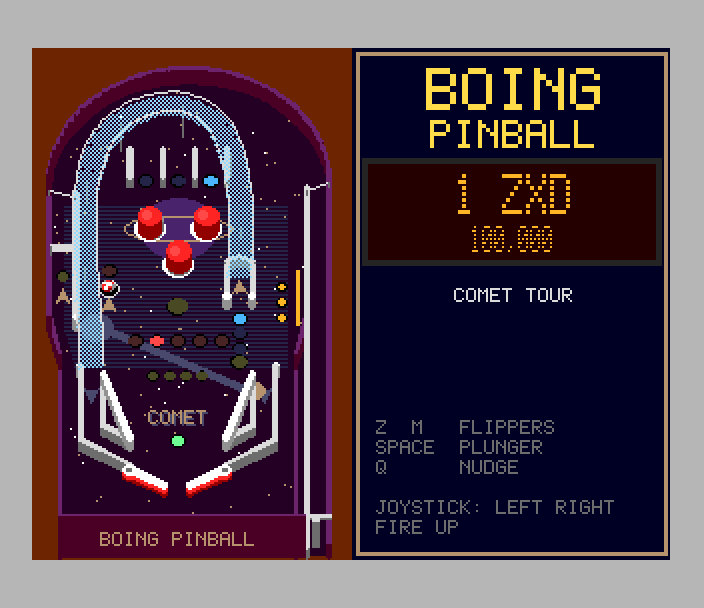
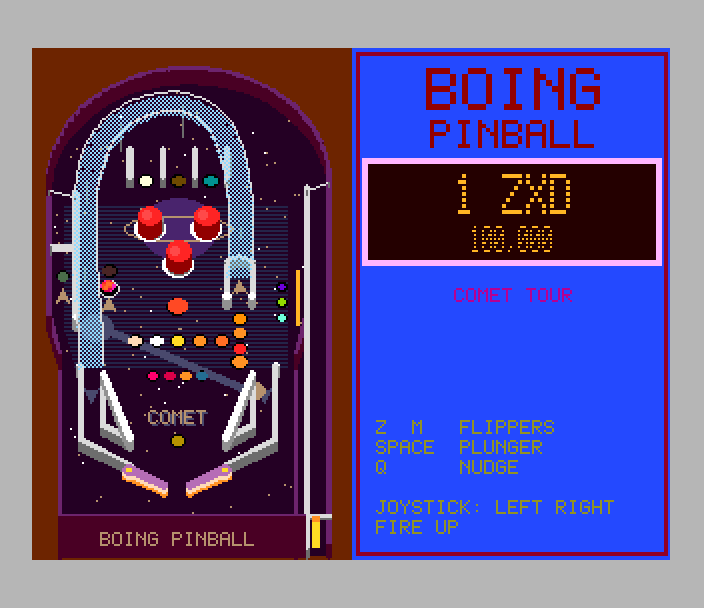
Boing Pinball's display: double buffered through the palette, tested every frame; tests that stopping an emulator spares others
- the next text is drawn into a pen coloured like the background (shared
  dots: a third, always-lit pen), only changed columns, composed and
  copied whole, at most 16 a frame and only while the raster line (NextReg
  0x1E/0x1F) is below the display; when done, the hidden Layer 2 palette
  gets the swapped colours and one NextReg 0x43 write shows it
- test.py: 630 frames (attract-mode text changes, a game's start), each
  screenshot's display compared pixel for pixel with the text the game says
  is visible (rendered in Python from the SDK font): never half drawn
- test_features: close / reboot / power cycle of one emulator leave another
  running (the harness only stops its own Popen; ./zx clean only runs make
  clean; selftest also rejects pkill/killall)

diff --git a/projects/boing_pinball/src/front.c b/projects/boing_pinball/src/front.c
@@ -51,23 +51,52 @@ struct {
 
 /* ------------------------------------------------------------ the display */
 
-/* The original's draw_dmd (one big line, or a big and a small one), drawn
-   a pixel column at a time: each column's dots are compared with what it
-   shows, only changed columns are drawn, at most DMD_BUDGET a frame, right
-   after the frame's interrupt (the beam is above the display then). A
-   score change redraws a few digits; a new message wipes in over a few
-   frames instead of being seen half drawn. Flashing is the palette. */
+/* Layer 2 has two palettes; NextReg 0x43 bit 2 picks the one shown. Entries
+   are written to both (keeping that bit), so the display can switch in one
+   write (dmd_update). */
+static uint8_t l2pal_shown;
+
+static void l2pal(uint8_t second, uint8_t idx, uint16_t c)
+{
+    ZXN_WRITE_REG(0x43, (second ? 0x50 : 0x10) | (l2pal_shown << 2));
+    ZXN_WRITE_REG(0x40, idx);
+    ZXN_WRITE_REG(0x44, (uint8_t)(c >> 1));
+    ZXN_WRITE_REG(0x44, (uint8_t)(c & 1));
+}
+
+static void set_pal(uint8_t idx, uint16_t c)
+{
+    l2pal(0, idx, c);
+    l2pal(1, idx, c);
+}
+
+/* The original's draw_dmd (one big line, or a big and a small one),
+   double buffered through the palette: the dots of the text being shown
+   are drawn in one pen, the next text's in another whose colour is the
+   background's (dots in both: a third pen, always lit). The next text is
+   drawn a pixel column at a time, only columns that differ, at most
+   DMD_BUDGET a frame, right after the frame's interrupt; when every column
+   is ready, the colours for the swapped pens go into the palette that
+   isn't shown and one register write shows it: the whole display changes
+   at once. A column is composed and copied so every pixel goes straight to
+   its final pen (a visible dot only ever turns into the always-lit pen):
+   it is never seen half drawn, whenever you look. Flashing is the palette. */
 #define DMD_BUDGET 16                   /* ~4.4K T-states a column: done before the beam reaches row 58 */
+#define PEN_A  88
+#define PEN_B  89
+#define PEN_AB 90
 
 typedef struct { const char *s; int16_t x0; uint8_t n, sx, y, sy; } dmd_line;
-static char shown_big[24], shown_small[40];
-static dmd_line lines[2];
-static uint8_t dmd_layout = 0xFF, dmd_cursor = DMD_W, dmd_flash;
-/* what each column shows and should show: line 0's dots | line 1's << 7
-   (initialised, so in the front end's page: Makefile) */
-static uint16_t col_sig[DMD_W] = {0xFFFF}, col_want[DMD_W] = {0};
-
-static void dmd_columns(const dmd_line *l, uint8_t shift);
+typedef struct { uint8_t layout; dmd_line l[2]; } dmd_geo;
+static char want_big[24], want_small[40];
+char dmd_vis_big[24], dmd_vis_small[40];        /* the text that is visible (test.py) */
+static dmd_geo geo_want, geo_vis, geo_hid;       /* where each pen's dots are */
+static uint8_t pen_vis = PEN_A, pen_hid = PEN_B, dmd_cursor, dmd_pending, dmd_flash;
+/* per column: the dots the next text needs, and what each pen holds there
+   (line 0's dots | line 1's << 7); initialised: in the front end's page */
+static uint16_t col_want[DMD_W] = {0}, sig_a[DMD_W] = {0}, sig_b[DMD_W] = {0};
+static uint16_t *sig_vis = sig_a, *sig_hid = sig_b;
+static uint8_t colbuf[DMD_H] = {0};
 
 static void dmd_set_line(dmd_line *l, const char *s, uint8_t sx, uint8_t y, uint8_t sy)
 {
@@ -77,39 +106,6 @@ static void dmd_set_line(dmd_line *l, const char *s, uint8_t sx, uint8_t y, uint
     l->x0 = (DMD_W - (int16_t)text_w(s, sx)) / 2;
     l->y = y;
     l->sy = sy;
-}
-
-static void dmd(const char *big, const char *small, uint8_t flash)
-{
-    uint8_t sx, layout;
-    if (!small) small = "";
-    if (flash != dmd_flash) {
-        dmd_flash = flash;
-        pal_set(1, P_DMD_ON, l2_pal_0[flash ? P_DMD_MID : P_DMD_ON]);
-    }
-    if (!strcmp(big, shown_big) && !strcmp(small, shown_small)) return;
-    strncpy(shown_big, big, sizeof shown_big - 1);
-    strncpy(shown_small, small, sizeof shown_small - 1);
-    if (!small[0]) {
-        sx = text_w(big, 3) <= DMD_W ? 3 : text_w(big, 2) <= DMD_W ? 2 : 1;
-        dmd_set_line(&lines[0], shown_big, sx, (DMD_H - 7 * (sx + 1)) / 2, sx + 1);
-        lines[1].n = 0;
-        layout = sx;
-    } else {
-        sx = text_w(big, 2) <= DMD_W ? 2 : 1;
-        dmd_set_line(&lines[0], shown_big, sx, 5, 3);
-        dmd_set_line(&lines[1], shown_small, 1, 31, 2);
-        layout = 4 + sx;
-    }
-    if (layout != dmd_layout) {                 /* the dots move: every column is new */
-        uint8_t x;
-        dmd_layout = layout;
-        for (x = 0; x < DMD_W; x++) col_sig[x] = 0xFFFF;
-    }
-    memset(col_want, 0, sizeof col_want);
-    dmd_columns(&lines[0], 0);
-    if (lines[1].n) dmd_columns(&lines[1], 7);
-    dmd_cursor = 0;
 }
 
 /* a line's dots into col_want, column by column (no divisions) */
@@ -131,28 +127,99 @@ static void dmd_columns(const dmd_line *l, uint8_t shift)
     }
 }
 
-static void dots(uint8_t *p, uint8_t bits, uint8_t sy)
+/* the pens' colours in palette `which` (0 / 1) */
+static void dmd_colours(uint8_t which)
 {
+    uint16_t on = l2_pal_0[dmd_flash ? P_DMD_MID : P_DMD_ON];
+    l2pal(which, pen_vis, on);
+    l2pal(which, PEN_AB, on);
+    l2pal(which, pen_hid, l2_pal_0[P_DMD_BG]);
+}
+
+static void dmd(const char *big, const char *small, uint8_t flash)
+{
+    uint8_t sx;
+    if (!small) small = "";
+    if (flash != dmd_flash) { dmd_flash = flash; dmd_colours(l2pal_shown); }
+    if (!strcmp(big, want_big) && !strcmp(small, want_small)) return;
+    strncpy(want_big, big, sizeof want_big - 1);
+    strncpy(want_small, small, sizeof want_small - 1);
+    if (!small[0]) {
+        sx = text_w(big, 3) <= DMD_W ? 3 : text_w(big, 2) <= DMD_W ? 2 : 1;
+        dmd_set_line(&geo_want.l[0], want_big, sx, (DMD_H - 7 * (sx + 1)) / 2, sx + 1);
+        geo_want.l[1].n = 0;
+        geo_want.layout = sx;
+    } else {
+        sx = text_w(big, 2) <= DMD_W ? 2 : 1;
+        dmd_set_line(&geo_want.l[0], want_big, sx, 5, 3);
+        dmd_set_line(&geo_want.l[1], want_small, 1, 31, 2);
+        geo_want.layout = 4 + sx;
+    }
+    memset(col_want, 0, sizeof col_want);
+    dmd_columns(&geo_want.l[0], 0);
+    if (geo_want.l[1].n) dmd_columns(&geo_want.l[1], 7);
+    if (geo_want.layout != geo_hid.layout) {     /* the hidden pen's dots move: redo every column */
+        uint8_t x;
+        geo_hid = geo_want;
+        for (x = 0; x < DMD_W; x++) sig_hid[x] = 0xFFFF;
+    }
+    dmd_cursor = 0;
+    dmd_pending = 1;
+}
+
+/* a pen's dots into a column being composed: `bits` rows of the line at y,
+   sy apart; where the other text has a dot too, the always-lit pen */
+static void dots(uint8_t *p, uint8_t bits, uint8_t sy, uint8_t pen)
+{
+    uint8_t j;
     for (; bits; bits >>= 1, p += sy)
-        if (bits & 1) memset(p, P_DMD_ON, sy - 1);
+        if (bits & 1)
+            for (j = 0; j < sy - 1; j++) p[j] = p[j] == P_DMD_BG ? pen : PEN_AB;
+}
+
+/* the beam's video line (0 = the first line of the 256 x 192 paper area;
+   Layer 2's 320 x 256 row r is line r - 32). The display is lines 26-74;
+   its work (at most ~50 lines' worth) starts only below it, so the beam
+   never passes it while it changes, even after a slow frame. */
+static uint8_t beam_clear_of_dmd(void)
+{
+    uint16_t line = ((uint16_t)(ZXN_READ_REG(0x1E) & 1) << 8) | ZXN_READ_REG(0x1F);
+    return line >= DMD_Y + DMD_H - 32 && line <= 280;
 }
 
 static void dmd_update(void)
 {
     uint8_t n = 0;
+    if (!dmd_pending || !beam_clear_of_dmd()) return;
+    if (dmd_cursor >= DMD_W) {                   /* all drawn: swap at the frame's start */
+        uint16_t *t = sig_vis;
+        dmd_geo g = geo_vis;
+        uint8_t p = pen_vis;
+        pen_vis = pen_hid; pen_hid = p;
+        sig_vis = sig_hid; sig_hid = t;
+        geo_vis = geo_hid; geo_hid = g;
+        dmd_colours(l2pal_shown ^ 1);           /* the hidden palette, then show it: one write */
+        l2pal_shown ^= 1;
+        ZXN_WRITE_REG(0x43, 0x10 | (l2pal_shown << 2));
+        strcpy(dmd_vis_big, want_big);
+        strcpy(dmd_vis_small, want_small);
+        dmd_pending = 0;
+        return;
+    }
     while (dmd_cursor < DMD_W && n < DMD_BUDGET) {
-        uint8_t x = dmd_cursor++, a, b;
-        uint16_t sig = col_want[x];
+        uint8_t x = dmd_cursor++;
+        uint16_t w = col_want[x], v = sig_vis[x];
         uint8_t *p;
-        if (sig == col_sig[x]) continue;
-        a = sig & 0x7F;
-        b = sig >> 7;
-        col_sig[x] = sig;
+        if (w == sig_hid[x]) continue;
+        sig_hid[x] = w;
         n++;
+        memset(colbuf, P_DMD_BG, DMD_H);
+        if (v & 0x7F) dots(colbuf + geo_vis.l[0].y, v & 0x7F, geo_vis.l[0].sy, pen_vis);
+        if (v >> 7) dots(colbuf + geo_vis.l[1].y, v >> 7, geo_vis.l[1].sy, pen_vis);
+        if (w & 0x7F) dots(colbuf + geo_hid.l[0].y, w & 0x7F, geo_hid.l[0].sy, pen_hid);
+        if (w >> 7) dots(colbuf + geo_hid.l[1].y, w >> 7, geo_hid.l[1].sy, pen_hid);
         p = l2w_column(DMD_X + x) + DMD_Y;
-        memset(p, P_DMD_BG, DMD_H);
-        if (a) dots(p + lines[0].y, a, lines[0].sy);
-        if (b) dots(p + lines[1].y, b, lines[1].sy);
+        memcpy(p, colbuf, DMD_H);
     }
     if (n) l2w_done();
 }
@@ -161,6 +228,7 @@ static void dmd_update(void)
 
 static void video_init(void)
 {
+    uint16_t i;
     next_reg(0x68, 0x80);               /* the ULA off (its memory holds the table's data) */
     l2w_slot = 2;
     l2w_restore = DATA_PAGE;
@@ -169,6 +237,8 @@ static void video_init(void)
     spr_init();
     pal_load(2, spr_pal, 16);
     spr_patterns_from_pages(SPR_PAGE, 2, 0, SPR_NPAT, DATA_PAGE);
+    for (i = 0; i < 256; i++) l2pal(1, (uint8_t)i, l2_pal_0[i]);   /* the second palette: the same */
+    dmd_colours(0);
 }
 
 /* ------------------------------------------------------------ what moves */
@@ -229,7 +299,7 @@ static uint8_t lamp_shown[L_LAMPS], drop_shown[8], spin_shown[2];
 static uint8_t bumper_flash[PB_MAX_CIRC], sling_flash[2], flash_shown[PB_MAX_CIRC + 2];
 static uint16_t frame;
 
-static void set_pal(uint8_t idx, uint16_t c) { pal_set(1, idx, c); }
+
 
 static void draw_lamps(void)
 {
@@ -450,7 +520,7 @@ void front_main(void)
         } else if (mode == M_OVER && mode_t > 150 && start && !start_was) {
             int8_t place = hs_rank((uint32_t)g.score);
             if (place >= 0) enter_name(place);
-            shown_big[0] = 0;
+            want_big[0] = 0;
             new_game(1, frame);
         }
         start_was = start;

diff --git a/projects/boing_pinball/test.py b/projects/boing_pinball/test.py
@@ -28,6 +28,62 @@ BS_PLAY, BS_LANE = 0, 1
 failures = []
 DEBUG = "--debug" in sys.argv
 
+# ---- the dot-matrix display: every frame must show one whole text ----
+import re as _re
+_FONT = [[int(v, 16) for v in r.split(", ")] for r in
+         _re.findall(r"\{ (0x[0-9A-F]{2}(?:, 0x[0-9A-F]{2}){6}) \}", (ROOT / "sdk" / "src" / "font5.c").read_text())]
+DMD_X, DMD_Y, DMD_W, DMD_H = 168, 58, 144, 48          # src/gfx.h
+
+
+def dmd_expected(big, small):
+    """the lit pixels for a text, laid out as front.c's dmd() does"""
+    w = lambda t, sx: len(t) * 6 * sx - sx if t else 0
+    lines = []
+    if not small:
+        sx = 3 if w(big, 3) <= DMD_W else 2 if w(big, 2) <= DMD_W else 1
+        lines.append((big, sx, (DMD_H - 7 * (sx + 1)) // 2, sx + 1))
+    else:
+        sx = 2 if w(big, 2) <= DMD_W else 1
+        lines += [(big, sx, 5, 3), (small, 1, 31, 2)]
+    lit = set()
+    for t, sx, y0, sy in lines:
+        x0 = int((DMD_W - w(t, sx)) / 2)                  # C division (towards 0)
+        for k, ch in enumerate(t):
+            o = ord(ch) - 33
+            if not 0 <= o < len(_FONT):
+                continue
+            for c in range(5):
+                for r in range(7):
+                    if _FONT[o][r] & (0x80 >> c):
+                        for i in range(sx):
+                            x = x0 + (k * 6 + c) * sx + i
+                            if 0 <= x < DMD_W:
+                                for j in range(sy - 1):
+                                    lit.add((x, y0 + r * sy + j))
+    return lit
+
+
+def dmd_check_frames(e, frames):
+    """screenshots of `frames` frames: the display shows exactly the text the
+    game says is visible (dmd_vis_*), never part of one"""
+    bad = []
+    for f in range(frames):
+        e.run(1)
+        big = e.read_mem("dmd_vis_big", 24).split(b"\0")[0].decode()
+        small = e.read_mem("dmd_vis_small", 40).split(b"\0")[0].decode()
+        img = e.screenshot()
+        sc = img.width // 352                            # 320 + a 16-pixel border each side
+        P = lambda x, y: img.getpixel(((16 + DMD_X + x) * sc, (24 + DMD_Y + y) * sc))[:3]
+        bg = P(DMD_W - 1, DMD_H - 1) if not big else None
+        want = dmd_expected(big, small)
+        if bg is None:                                   # the background: a pixel no text ever lights
+            bg = P(0, 0)
+        got = {(x, y) for x in range(DMD_W) for y in range(DMD_H) if P(x, y) != bg}
+        if got != want:
+            bad.append((f, big, small, len(got ^ want)))
+    return bad
+
+
 
 def check(name, ok, detail=""):
     print(f"  {'PASS' if ok else 'FAIL'} {name}{f'  ({detail})' if detail and not ok else ''}")
@@ -95,11 +151,16 @@ with Emulator(machine="next") as e:
     check("TurboSound AY found", e.read_mem("ay_present", 1)[0] == 1)
     e.run(200)
     e.screenshot(SHOTS / "title.png")
+    # the attract mode's display changes every 3 s: every frame across three changes
+    bad = dmd_check_frames(e, 480)
+    check("the display is never seen half drawn (attract, 480 frames)", not bad, str(bad[:3]))
     e.record_input("start", from_reset=True)
     e.run_until("pinball: ready", 3000)
     e.run(100)
     e.press("SPACE", hold_frames=2, release_frames=2)
     check("FIRE starts a game", e.run_until("pinball: start", 50))
+    bad = dmd_check_frames(e, 150)                      # the game's first messages, the score
+    check("the display is never seen half drawn (a game's start, 150 frames)", not bad, str(bad[:3]))
     log = bot_game(e)
     scores = [int(s) for s in re.findall(r"pinball: score=(\d+)", log)]
     check("the bot scores points", scores and max(scores) >= 5000, str(scores[-3:]))

diff --git a/tools/zxdev/tests/test_features.py b/tools/zxdev/tests/test_features.py
@@ -276,6 +276,18 @@ def test_restart():
         check("ZRCP port collision: detected by PID, retried, other emulator untouched",
               ok and a.alive and a.run(3)["frames"] == 3)
 
+    # stopping, rebooting or power-cycling one emulator never touches another
+    # (other agents and the user run emulators on the same machine)
+    with Emulator() as a:
+        a.load(H48)
+        a.run_until("hello48: ready", 3000)
+        b = Emulator()
+        b.reboot()
+        b.power_cycle()
+        b.close()
+        check("close / reboot / power cycle stop only their own emulator",
+              a.alive and a.run(3)["frames"] == 3 and kv_pid(a) == a.proc.pid)
+
     # a session whose emulator is stuck inside a long command
     c = SessionClient.spawn(str(H48))
     try:

diff --git a/projects/boing_pinball/README.md b/projects/boing_pinball/README.md
@@ -48,11 +48,13 @@ far too slow at 120 steps a second. So:
   by the .nex (`gfx/`, `src/data.asm`). Balls (8 frames of a spinning Boing
   ball), flippers (8 angles, the right one mirrored) and the plunger are
   hardware sprites. Lamps, drop targets, bumper and sling flashes and the
-  spinner each own a palette entry. The dot-matrix display is drawn into
-  Layer 2 a pixel column at a time, only the columns that change, at most 16
-  a frame right after the frame's interrupt (before the beam reaches it), so
-  it is never seen half drawn; a new message wipes in over a few frames, a
-  score change redraws a few digits. Its flashing is a palette change.
+  spinner each own a palette entry. The dot-matrix display is double
+  buffered through the palette: the next text is drawn (only the columns
+  that change, at most 16 a frame, while the beam is below the display) in a
+  pen whose colour is the background's, then a palette swap shows it all at
+  once (the second Layer 2 palette: one register write). Columns are copied
+  whole, so a visible dot never goes dark on the way: no frame, and no
+  screenshot, ever shows a half-drawn display (test.py checks 630 frames).
 - **Memory**: the rules run from bank 20 mapped over the ROM, the table data
   and the front end from 8K pages at 0x4000 / 0x6000 (see `src/main.c`).
 - 28 MHz; the simulation runs 120 steps a second against the 50 Hz frame
@@ -74,7 +76,8 @@ What it uses beyond a 48K/128K Spectrum, and why:
 | **memory banks in the .nex** | the 80K picture and the sprite patterns go straight into banks 30-35 when it loads; NextReg 0x12 shows the picture from there | no copying, no main memory used |
 | **MMU banking** | the rules' code in bank 20 over the ROM (0x0000), the table data and the front end in 8K pages at 0x4000 and 0x6000 | the program is about 50K of code and data: more than the 28K a 64K address space leaves at 0x8000 |
 | **hardware sprites** (13 of 128) | the Boing balls (8 frames of spin), the flippers (8 angles, 32 x 32 from four sprites; the right one is the left mirrored), the plunger | everything that moves, with no redrawing of the table |
-| **palettes** | the lamps, drop targets, bumper and sling flashes and the spinner each own a palette entry | a lamp lights up by changing one colour: no drawing at all |
+| **palettes** | the lamps, drop targets, bumper and sling flashes and the spinner each own a palette entry; the display swaps texts by switching between Layer 2's two palettes | a lamp lights up by changing one colour; the display changes in one register write |
+| **raster line** (NextReg 0x1E/0x1F) | the display is only changed while the beam is below it | no tearing, even after a slow frame |
 | **AY** | the original's effects | |
 
 Not used: the **tilemap** and the **copper** (the picture never changes),
